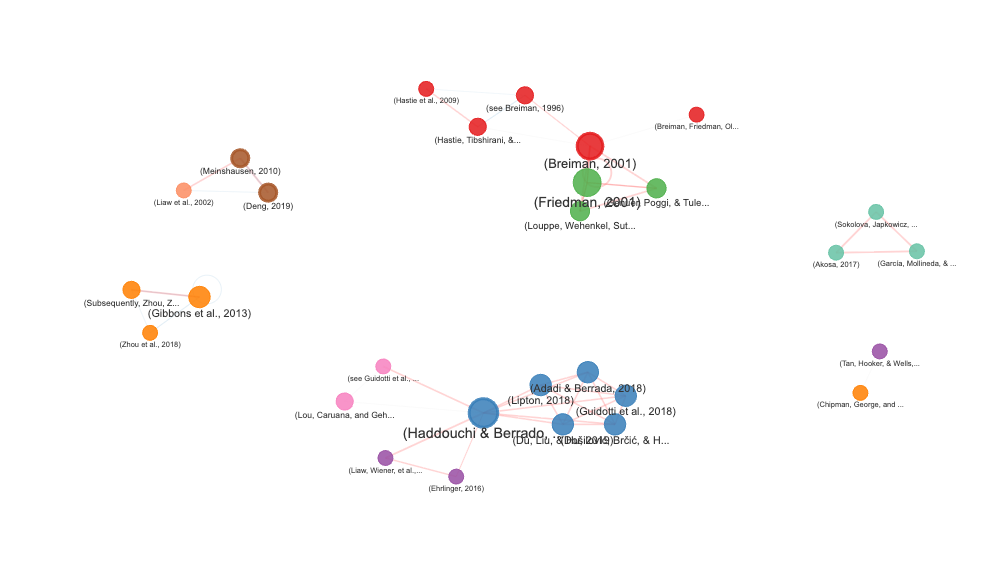
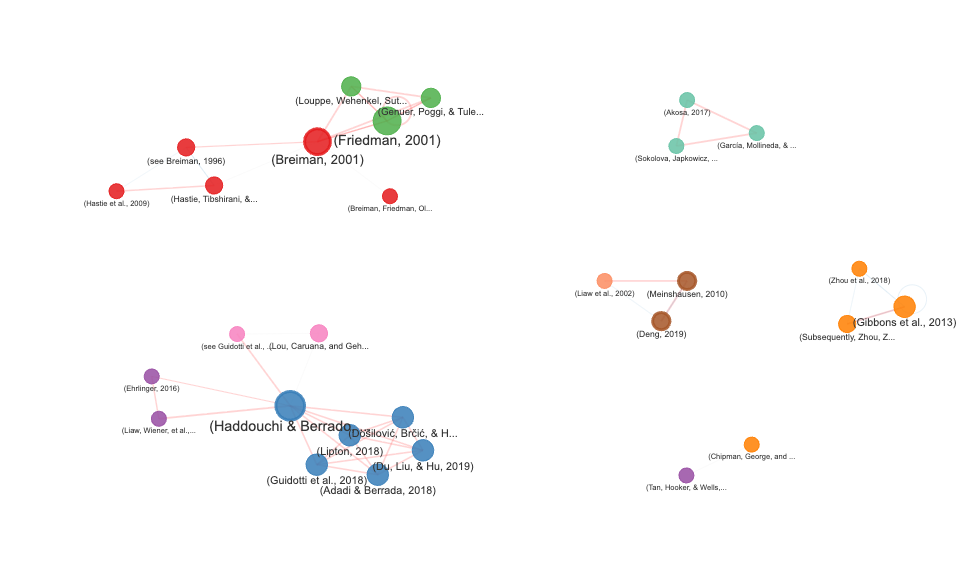
Make README output reproducible across knits
Two chunks made README.md and its figure change on every knit, producing
diffs unrelated to any source edit:

- create_citation_network() lays the graph out in R through visIgraphLayout()
  with physics disabled, so the layout is RNG-dependent and the rendered PNG
  differed on every run. Seed it.
- the OpenAlex example printed summary(cited_by_count), fetched live at knit
  time, so the numbers drifted as citation counts grew. Mark the chunk
  eval=FALSE, matching the other API examples in this README, which are shown
  but not executed.

The seed is set inside the existing chunk rather than in a hidden one on
purpose: an extra chunk shifts knitr's unnamed-chunk numbering and renames
every downstream figure file.

diff --git a/README.md b/README.md
@@ -373,6 +373,9 @@ Create interactive network visualizations showing how citations co-occur
 within your document:
 
 ``` r
+# The layout is computed in R by igraph, so seed it for a reproducible figure
+set.seed(20240101)
+
 # Create citation network
 network <- create_citation_network(
   citation_analysis_results = analysis,
@@ -773,8 +776,6 @@ if (!is.null(analysis$references_oa)) {
   # Analyze citation impact
   summary(analysis$references_oa$cited_by_count)
 }
-#>     Min.  1st Qu.   Median     Mean  3rd Qu.     Max. 
-#>    101.0    207.5   1161.5  12404.6   5519.2 125444.0
 ```
 
 ### Citations by section
